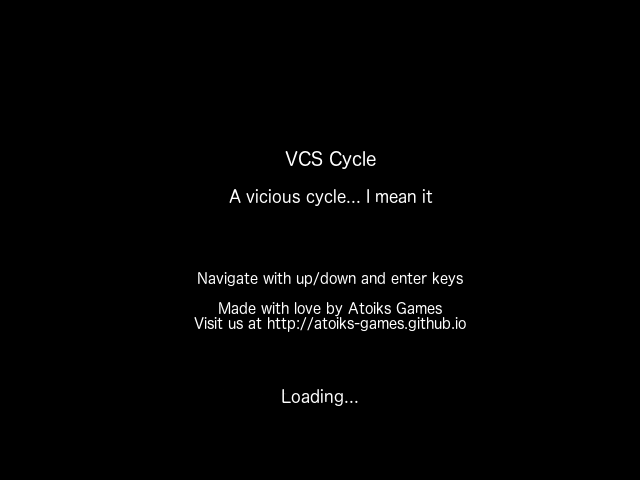
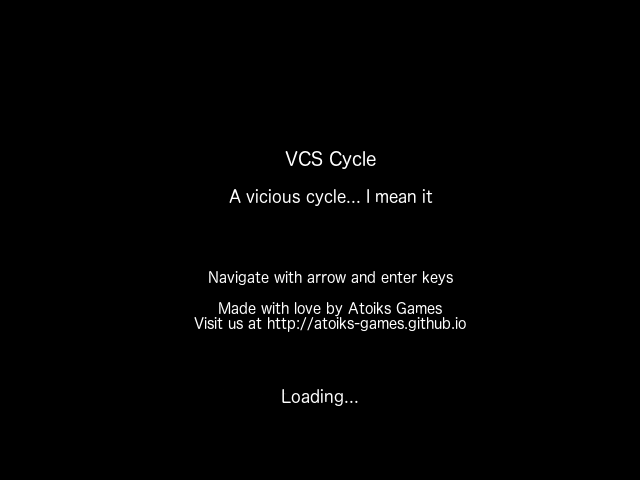
Support multipage options

Changed region(s): [[0.3125, 0.5625, 0.7188, 0.5938]]

diff --git a/Vcs-cycle/src/main/java/org/atoiks/games/vcsc/Page.java b/Vcs-cycle/src/main/java/org/atoiks/games/vcsc/Page.java
@@ -37,12 +37,14 @@ public abstract class Page extends Scene {
     public static final float DEFAULT_SCROLL_DELAY = 0.05f;
     public static final float NO_SCROLL_DELAY = 0;
 
+    private static final int MAX_OPTS_PER_SECT = 4;
     private static final int FONT_SIZE = 20;
     private static final Font font = new Font("Monospaced", Font.PLAIN, FONT_SIZE);
 
     private final int[] optHeight;
     private final float scrollDelay;
 
+    private int optSect;
     private int option;
     private float time;
     private int charProgress;
@@ -106,7 +108,9 @@ public abstract class Page extends Scene {
             g2d.setRenderingHint(RenderingHints.KEY_TEXT_ANTIALIASING, RenderingHints.VALUE_TEXT_ANTIALIAS_ON);
 
             if (charProgress > 0 || lineProgress > 0) {
-                final int baseHeight = 3 * App.HEIGHT / 4 - Math.max(lines.length - 3, 1) * 20;
+                // Idea is that if there are no options to render, the message can take up more space
+                final int baseHeight = 3 * App.HEIGHT / 4 -
+                        Math.max(lines.length - (optHeight.length == 0 ? 3 : 1), 1) * FONT_SIZE;
                 final int bound = Math.min(lineProgress + 1, lines.length);
                 g2d.setColor(messageColor);
                 for (int i = 0; i < bound; ++i) {
@@ -144,13 +148,16 @@ public abstract class Page extends Scene {
                 // Only render the option list if message was scrolled through entirely
                 if (doneScrolling()) {
                     final int newBase = baseHeight + (lines.length + 1) * FONT_SIZE;
+                    final int lower = optSect * MAX_OPTS_PER_SECT;
+                    final int optDispCount = Math.min(options.length - lower, MAX_OPTS_PER_SECT);
                     g2d.setColor(optionsColor);
-                    for (int i = 0; i < options.length; ++i) {
+                    for (int i = 0; i < optDispCount; ++i) {
+                        final int offset = i + lower;
                         final int h = newBase + i * FONT_SIZE;
-                        final String s = options[i];
+                        final String s = options[offset];
                         if (s == null) continue;    // Do not render <null>
                         g2d.drawString(s, 40, h);
-                        optHeight[i] = h - FONT_SIZE / 2 + 2;
+                        optHeight[offset] = h - FONT_SIZE / 2 + 2;
                     }
                 }
             }
@@ -163,9 +170,14 @@ public abstract class Page extends Scene {
     }
 
     private void normalizeOption() {
-        option = option < 0 ? optHeight.length - 1
-               : option >= optHeight.length ? 0
-               : option;
+        if (option < 0) {
+            option = optHeight.length - 1;
+        } else if (option >= optHeight.length) {
+            option = 0;
+        }
+
+        // Update optSect to display the correct list of options
+        optSect = option / MAX_OPTS_PER_SECT;
     }
 
     protected void scrollNextLine() {
@@ -190,11 +202,24 @@ public abstract class Page extends Scene {
         }
 
         if (options.length > 0) {
+            // Only contains -1, 0, +1
             int delta = 0;
+
+            // Modify option by 1
             if (scene.keyboard().isKeyPressed(KeyEvent.VK_UP)) delta = -1;
             if (scene.keyboard().isKeyPressed(KeyEvent.VK_DOWN)) delta = +1;
-
             option += delta;
+
+            // Modify option by a full optSec
+            if (scene.keyboard().isKeyPressed(KeyEvent.VK_LEFT)) {
+                option = (--optSect) * MAX_OPTS_PER_SECT;
+                delta = -1;
+            }
+            if (scene.keyboard().isKeyPressed(KeyEvent.VK_RIGHT)) {
+                option = (++optSect) * MAX_OPTS_PER_SECT;
+                delta = +1;
+            }
+
             normalizeOption();
 
             // guard against all null options which would have caused infinte loop
